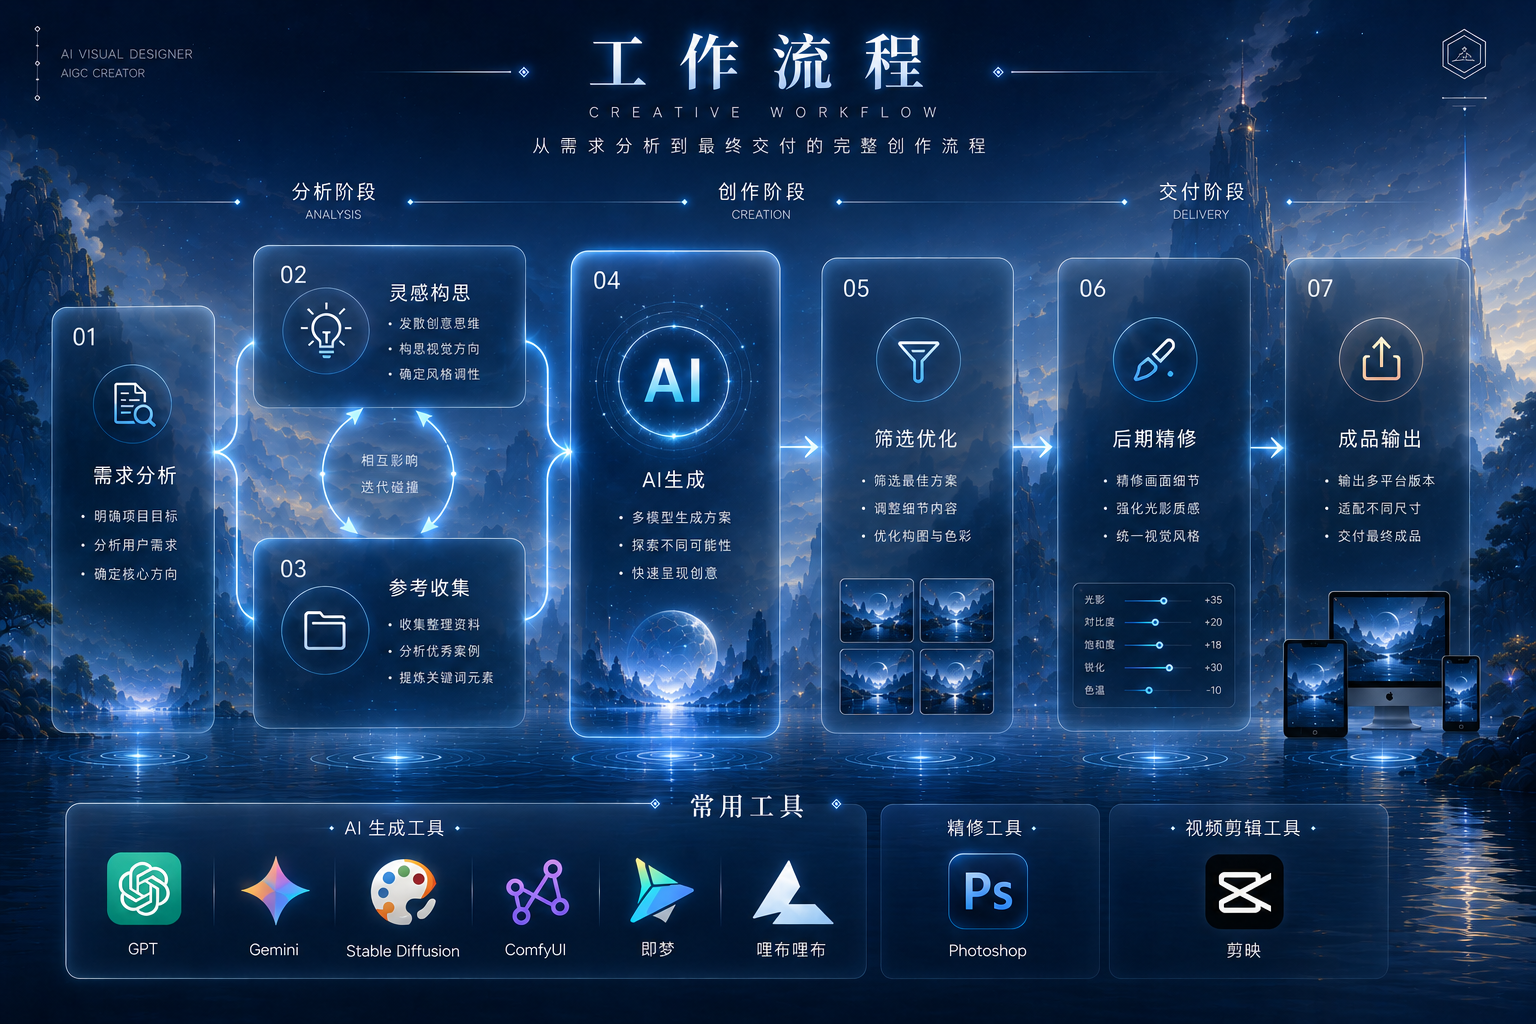
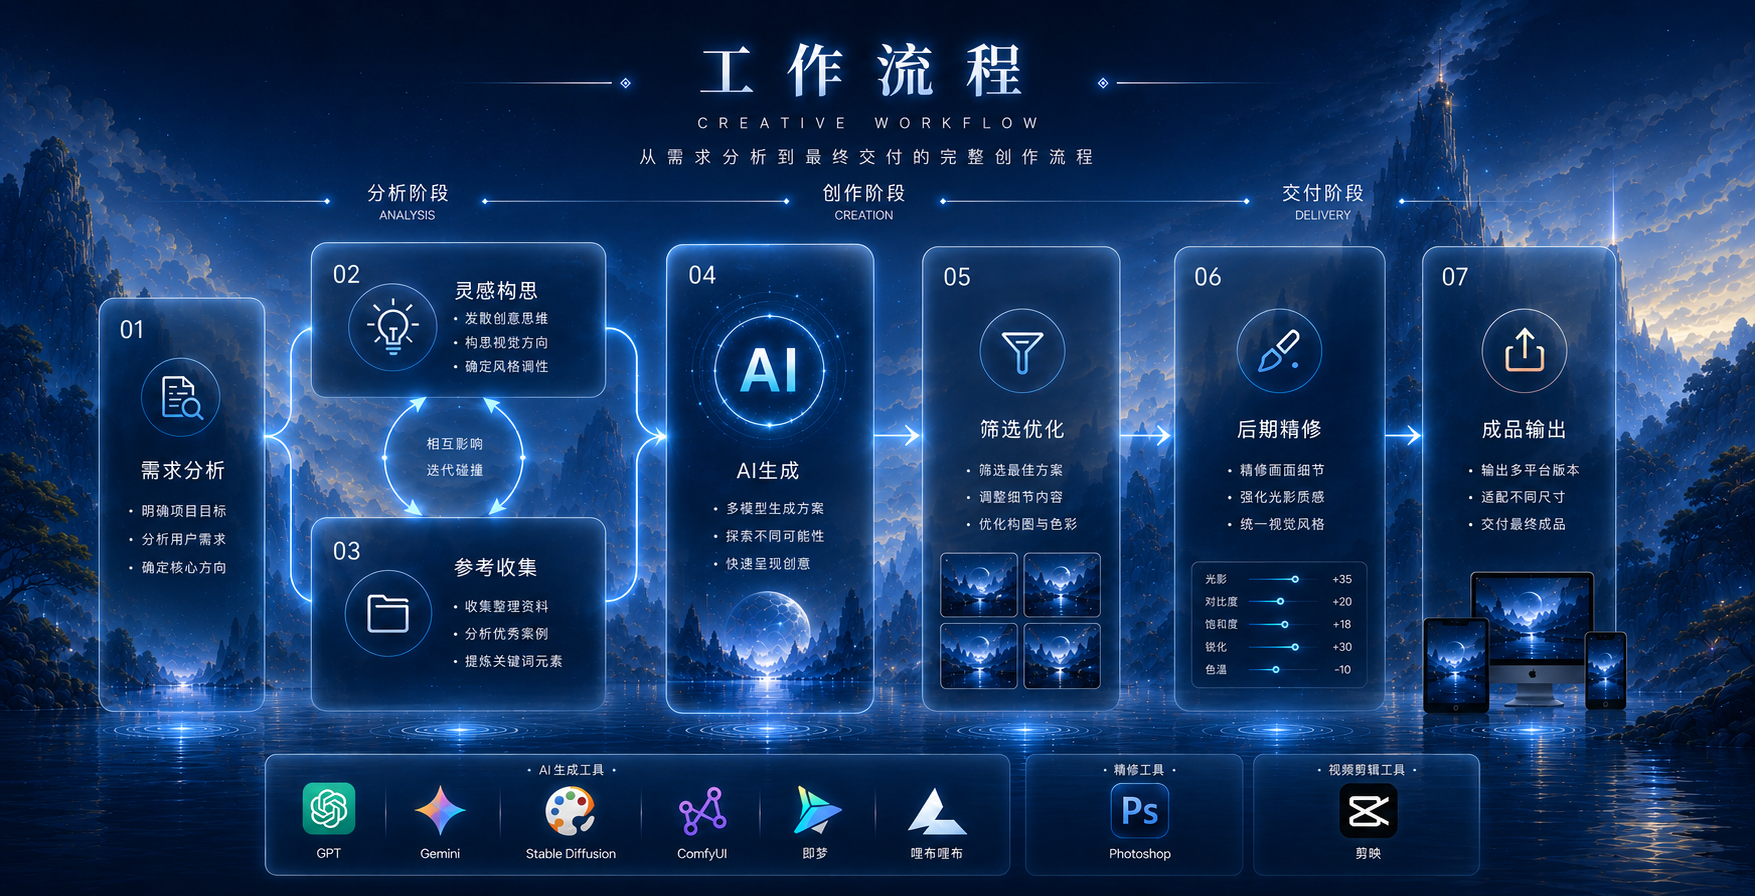
Replace homepage workflow module

diff --git a/index.html b/index.html
@@ -6,7 +6,7 @@
   <title>铁马德龙作品集</title>
   <meta name="description" content="铁马德龙作品集，AI 视觉创作与未来东方文明视觉设计展示。">
   <link rel="stylesheet" href="./styles.css?v=anchor-scroll-20260605">
-  <link rel="stylesheet" href="./card-color-overrides.css?v=card-color-20260612">
+  <link rel="stylesheet" href="./card-color-overrides.css?v=workflow-module-20260613">
 </head>
 <body>
   <header class="site-header">
@@ -151,7 +151,7 @@
 
     <section id="workflow" class="content-card workflow-card workflow-visual-section" aria-labelledby="workflow-title">
       <h2 id="workflow-title" class="visually-hidden">工作流程</h2>
-      <img class="workflow-visual" src="./assets/workflow-module-2.png" alt="工作流程：需求分析、灵感构思、参考收集、AI生成、筛选优化、后期精修、成品输出，以及常用工具展示。" loading="lazy" decoding="async" width="1600" height="900">
+      <img class="workflow-visual" src="./assets/workflow-module-2.png" alt="工作流程：需求分析、灵感构思、参考收集、AI生成、筛选优化、后期精修、成品输出，以及常用工具展示。" loading="lazy" decoding="async" width="1755" height="896">
     </section>
 
     <section id="contact" class="contact-journey" aria-label="联系我">
